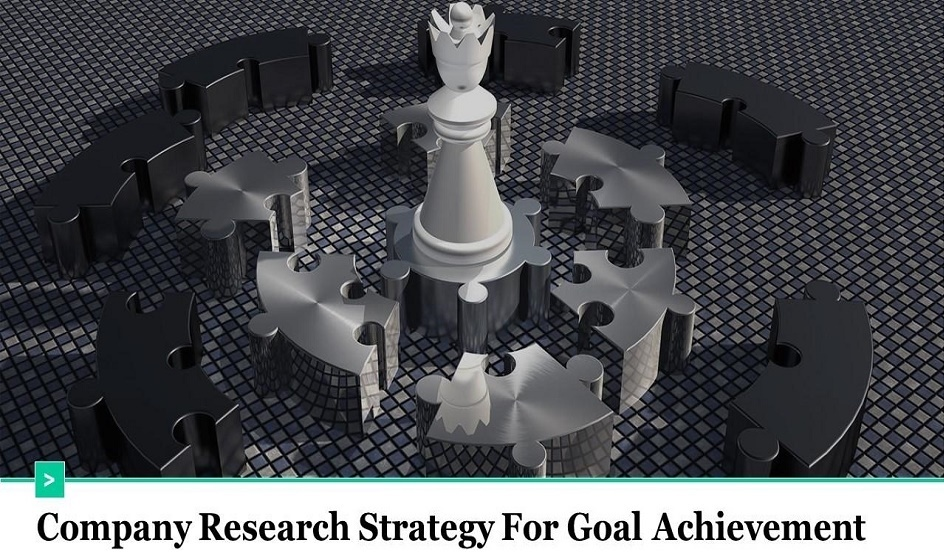
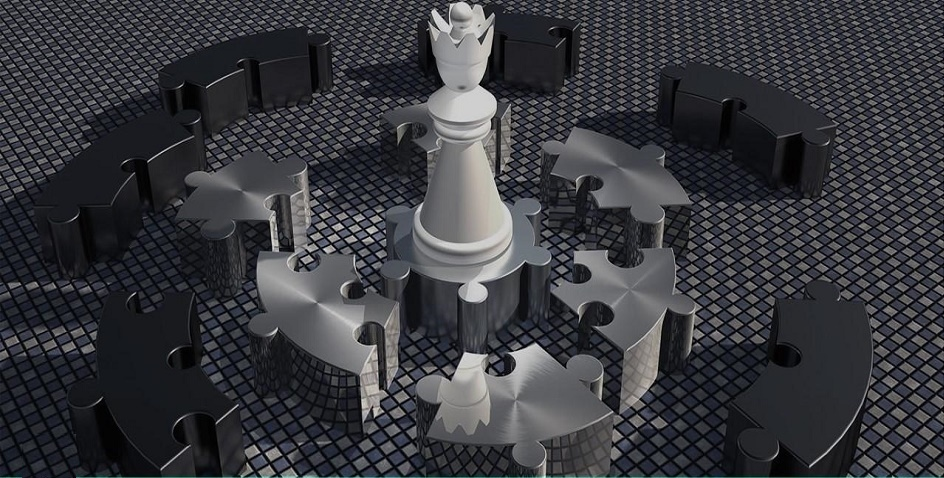
Adding further media queries

diff --git a/careers.html b/careers.html
@@ -127,7 +127,7 @@
       <div class="employeeslide">
         <div class="testimonials">
           <h3>Emma L., Sales and Marketing Manager</h3>
-          <p>"I've been with Triple Aceforward for over five years, and I continue to be impressed by the company's commitment to excellence. The collaborative environment fosters creativity and innovation, and I'm proud to be part of such a dynamic team."</p>
+          <p>"I've been with Triple Aceforward for over five years, and I'm impressed by the company's commitment to excellence. The collaborative environment fosters creativity and innovation, and I'm proud to be part of such a dynamic team."</p>
         </div>
       </div>
       <div class="employeeslide">

diff --git a/css/slider.css b/css/slider.css
@@ -14,7 +14,8 @@
   position: absolute;
   opacity: 0;
   transition: opacity 0.5s ease;
-  background-size: cover;
+  background-size: contain;
+  background-repeat: round;
 }
 
 .slide-content {
@@ -67,12 +68,14 @@
   .slide-content p {
     font-size: 1.4em; 
   }
+
+ 
 }
 
 /* Mobile Phones */
 @media (max-width: 480px) {
   #slider {
-    height: 50vh; 
+    height: 23vh; 
   }
 
   .slide-content h3 {
@@ -82,4 +85,6 @@
   .slide-content p {
     font-size: 1em; 
   }
+
+  
 }

diff --git a/css/styles.css b/css/styles.css
@@ -202,6 +202,16 @@ textarea {
 /* Media Queries for Responsiveness */
 
 /* Tablets */
+@media (min-width: 769px) and (max-width: 1023px){
+  
+  nav ul li a {
+    padding-right: 5px;
+  }
+  header div{
+    width: 30%;
+  }
+}
+
 @media (max-width: 768px) {
   header {
     flex-direction: column;

diff --git a/css/employeeslider.css b/css/employeeslider.css
@@ -29,7 +29,7 @@
 /* Tablets */
 @media (max-width: 768px) {
   #employees {
-    height: 24vh; 
+    height: 26vh; 
   }
 
   .testimonials h3 {
@@ -44,7 +44,7 @@
 /* Mobile Phones */
 @media (max-width: 480px) {
   #employees {
-    height: 20vh;
+    height: 26vh;
   }
 
   .testimonials h3 {
